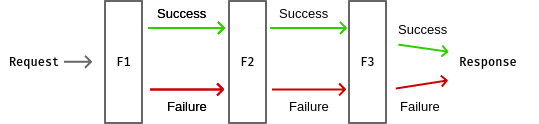
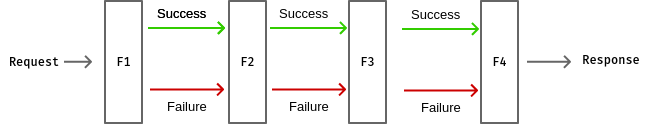
presentation: added slides

Changed region(s): [[0.0, 0.0, 0.9796, 1.0]]

diff --git a/presentation/css/custom.css b/presentation/css/custom.css
@@ -73,3 +73,9 @@ img[alt^=fullscreen-] {width: 100%; }
     box-shadow: none;
     width: 644px;
 }
+
+/* Remove border for some images --------------------- */
+.reveal section img[alt^=noborderx-] {
+    border: none;
+    box-shadow: none;
+}

diff --git a/presentation/content.md b/presentation/content.md
@@ -223,6 +223,11 @@ Wer m&ouml;chte heute noch auf Lambdas verzichten?
 
 ![noborder-](resources/railways-usage-3.png)
 
+<-- v -->
+
+- Wir brauchen ein Objekt, dass "beide Schienen im Bauch hat" (Success/Failure)
+- Dieses Objekt nennen wir **Result**
+
 <<= x =>>
 
 Machen wir unser Bildchen "funktionaler"
@@ -241,16 +246,27 @@ Machen wir unser Bildchen "funktionaler"
 
 Eigentlich wollen wir das Ergebnis von F1 kapseln, denn F2 erwartet
 
+<<= x =>>
+
+![noborderx-rop-why3](resources/rop-expect-result-return-result.png)
+
+**F2**: muss auch Fehler empfangen k&ouml;nnen (2 Eing&auml;nge)
+
+- wir m&uuml;ssen ein "Result" als Eingabe verarbeiten k&ouml;nnen
+- **F1** muss als Ausgabe ein "Result" liefern
 
 <-- v -->
 
-![noborder-rop-why3](resources/rop-expect-result-return-result.png)
+![noborderx-rop-wrapping-result](resources/rop-wrapping-result.png)
 
-<<= x =>>
+![noborderx-rop-f2-with-result](resources/rop-f2-withresult.png)
 
-**F2**: kann Fehler empfangen (2 Eing&auml;nge, 2 Ausg&auml;nge)
 
-- wir m&uuml;ssen ein "Result" als Eingabe verarbeiten k&ouml;nnen
+<-- v -->
+
+![noborder-](resources/railways-usage-2.png)
+
+![noborder-](resources/railways-result.png)
 
 <<= x =>>
 
@@ -291,14 +307,12 @@ public Result<Customer> CreateCustomer(...)
     }
 }
 ```
+
 <<= x =>>
 
 Finden wir zusammen raus, wie "Result" funktioniert
 
 **Mob-Session**
-
-**VIM**
-
 
 <<= x =>>
 
